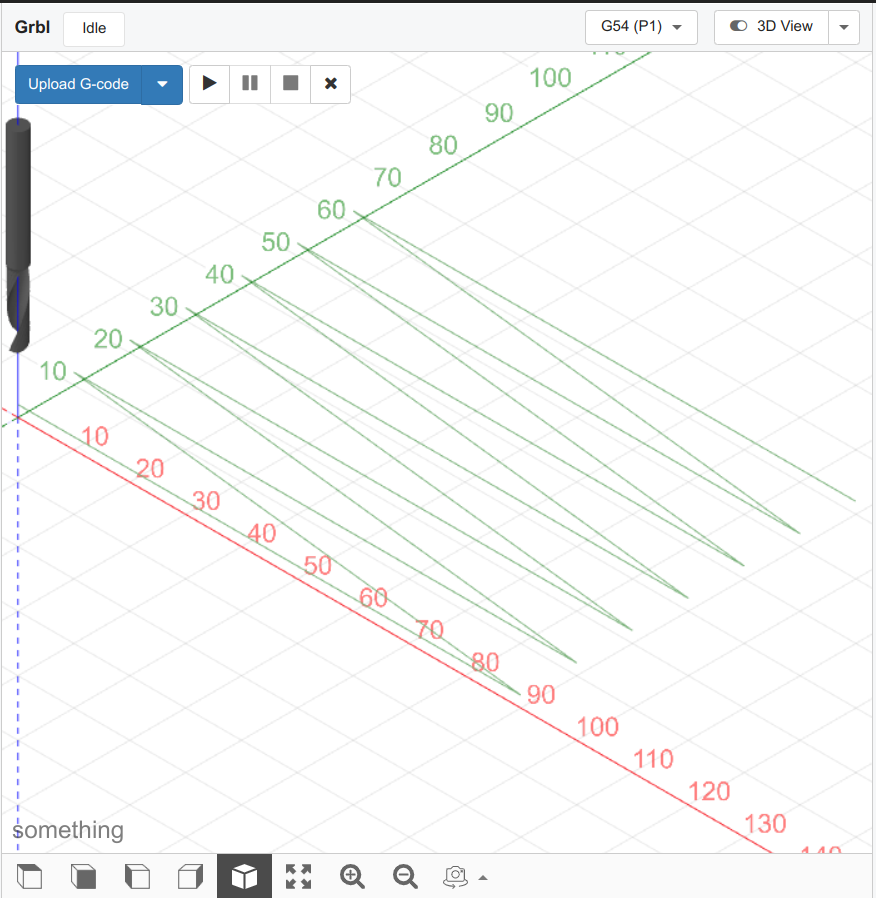
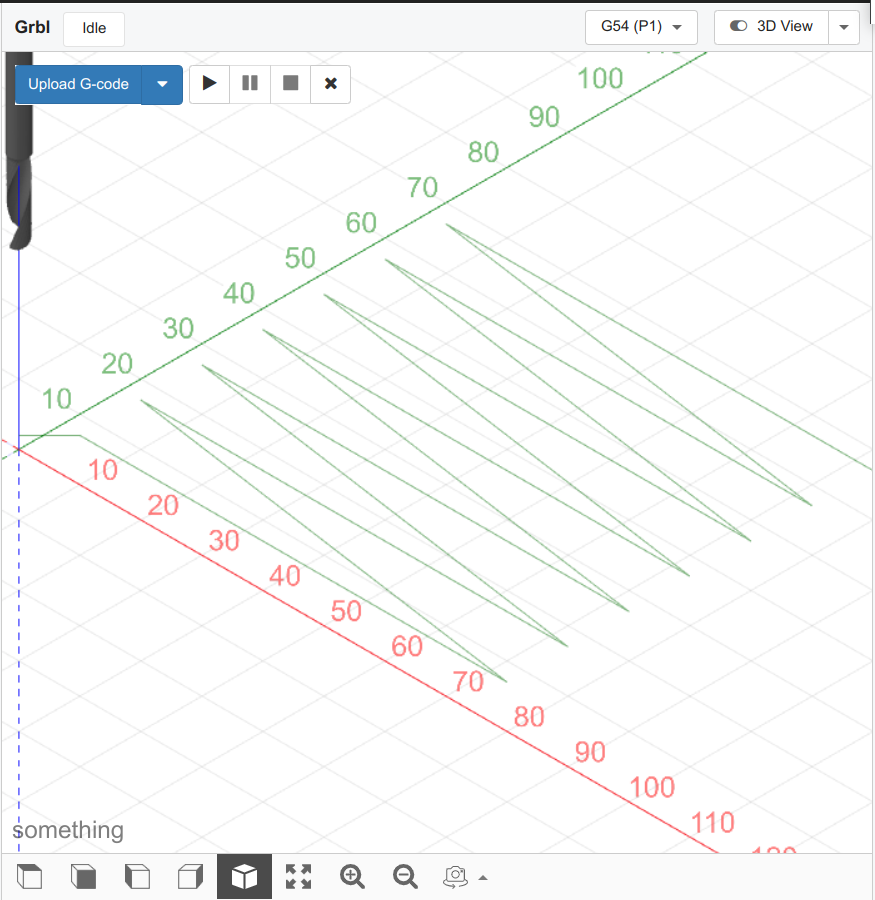
u

diff --git a/cncjsAL/manual.html b/cncjsAL/manual.html
@@ -59,14 +59,28 @@
 
         <h2>Set the coordinate system</h2>
 
-        Move the engraving bit to the bottom left of the probing area.<br>
-        Lower the Z-axis so that it is a few millimeters above the PCB.<br>
+        <p>
+          The probing can only be done inside the area of the PCB.<br>
+          Example: red area<br>
+          <img src="images/insets.png" alt="insets" width="300" height=""> <br>
+        </p>
+        <p>
+          We will set the origin of the coordinate system to the bottom left corner of the PCB,<br>
+          and define the probing area inside the confines of the PCB.
+        </p>
+        Move the engraving bit to a point above the bottom left corner of the PCB.<br>
 
         <p>
           In the Axes widget:<br>
           Zero out the X-axis and the Y-Axis<br>
           <img src="images/zero_offsets.png" alt="zero_offsets" width="300" height=""> <br>
         </p>
+
+        <p> Now move the bit to a point that will be the starting point of the probing area.<br>
+          For example, to X = 5 mm and Y = 5 mm
+        </p>
+        Lower the Z-axis so that it is a few millimeters above the PCB.<br>
+
 
         <p>
           Open the Probe widget:<br>
@@ -75,9 +89,10 @@
         </p>
 
         Click on "Probe" to start setting the zero of the Z-axis.<br>
-        After probing is done, the coordinate origin should be set to the probing area.
-
-
+        <p>
+          After probing is done, the Z-axis will be set to zero at the surface of the PCB at the starting
+          point of the probing grid.
+        </p>
         <h2>Open the AutoLevel widget</h2>
 
         Click on Manage Widgets<br>
@@ -99,7 +114,7 @@
         <p>Click on "Setup" in the AutoLevel widget to setup the AutoLevel grid
         </p>
         Choose the probing area to match the size of the area of the PCB that will be isolation milled,<br>
-        but make sure that the probing area is smaller than the physical PCB, <br>
+        but make sure that the probing area is within the physical PCB, <br>
         otherwise a crash may occur.
         <p>
           <img src="images/PCB_setup.png" alt="PCB_setup" width="" height="350"> <br>
@@ -224,7 +239,7 @@
 
   </div>
   <div class="footer">
-    <h2>More coming soon..<br>
+    <h2>July 2023<br>
     </h2>
   </div>
 </body>

diff --git a/techtips/d3.html b/techtips/d3.html
@@ -141,8 +141,8 @@
 
     </div>
     <div class="footer">
-        <h2>More coming soon..<br>
-        </h2>
+        <h3>July 2023
+        </h3>
     </div>
 </body>
 

diff --git a/techtips/deno.html b/techtips/deno.html
@@ -355,8 +355,8 @@
 
     </div>
     <div class="footer">
-        <h2>More coming soon..<br>
-        </h2>
+        <h3>July 2023
+        </h3>
     </div>
 </body>
 

diff --git a/techtips/deno_fresh.html b/techtips/deno_fresh.html
@@ -100,8 +100,8 @@
 
     </div>
     <div class="footer">
-        <h2>More coming soon..<br>
-        </h2>
+        <h3>July 2023
+        </h3>
     </div>
 </body>
 

diff --git a/techtips/git.html b/techtips/git.html
@@ -185,8 +185,8 @@
 
     </div>
     <div class="footer">
-        <h2>More coming soon..<br>
-        </h2>
+        <h3>July 2023
+        </h3>
     </div>
 </body>
 

diff --git a/techtips/postgres.html b/techtips/postgres.html
@@ -189,8 +189,8 @@
 
     </div>
     <div class="footer">
-        <h2>More coming soon..<br>
-        </h2>
+        <h3>July 2023
+        </h3>
     </div>
 </body>
 

diff --git a/techtips/react.html b/techtips/react.html
@@ -101,8 +101,8 @@
 
     </div>
     <div class="footer">
-        <h2>More coming soon..<br>
-        </h2>
+        <h3>July 2023
+        </h3>
     </div>
 </body>
 

diff --git a/techtips/ubuntu.html b/techtips/ubuntu.html
@@ -126,8 +126,8 @@
 
     </div>
     <div class="footer">
-        <h2>More coming soon..<br>
-        </h2>
+        <h3>July 2023
+        </h3>
     </div>
 </body>
 

diff --git a/techtips/vscode.html b/techtips/vscode.html
@@ -107,8 +107,8 @@
 
     </div>
     <div class="footer">
-        <h2>More coming soon..<br>
-        </h2>
+        <h3>July 2023
+        </h3>
     </div>
 </body>
 

diff --git a/techtips/chartjs.html b/techtips/chartjs.html
@@ -85,8 +85,8 @@
 
     </div>
     <div class="footer">
-        <h2>More coming soon..<br>
-        </h2>
+        <h3>July 2023
+        </h3>
     </div>
 </body>
 

diff --git a/techtips/cncjs.html b/techtips/cncjs.html
@@ -97,8 +97,8 @@
 
     </div>
     <div class="footer">
-        <h2>More coming soon..<br>
-        </h2>
+        <h3>July 2023
+        </h3>
     </div>
 </body>
 

diff --git a/techtips/cockpit.html b/techtips/cockpit.html
@@ -66,8 +66,8 @@
 
     </div>
     <div class="footer">
-        <h2>More coming soon..<br>
-        </h2>
+        <h3>July 2023
+        </h3>
     </div>
 </body>
 
